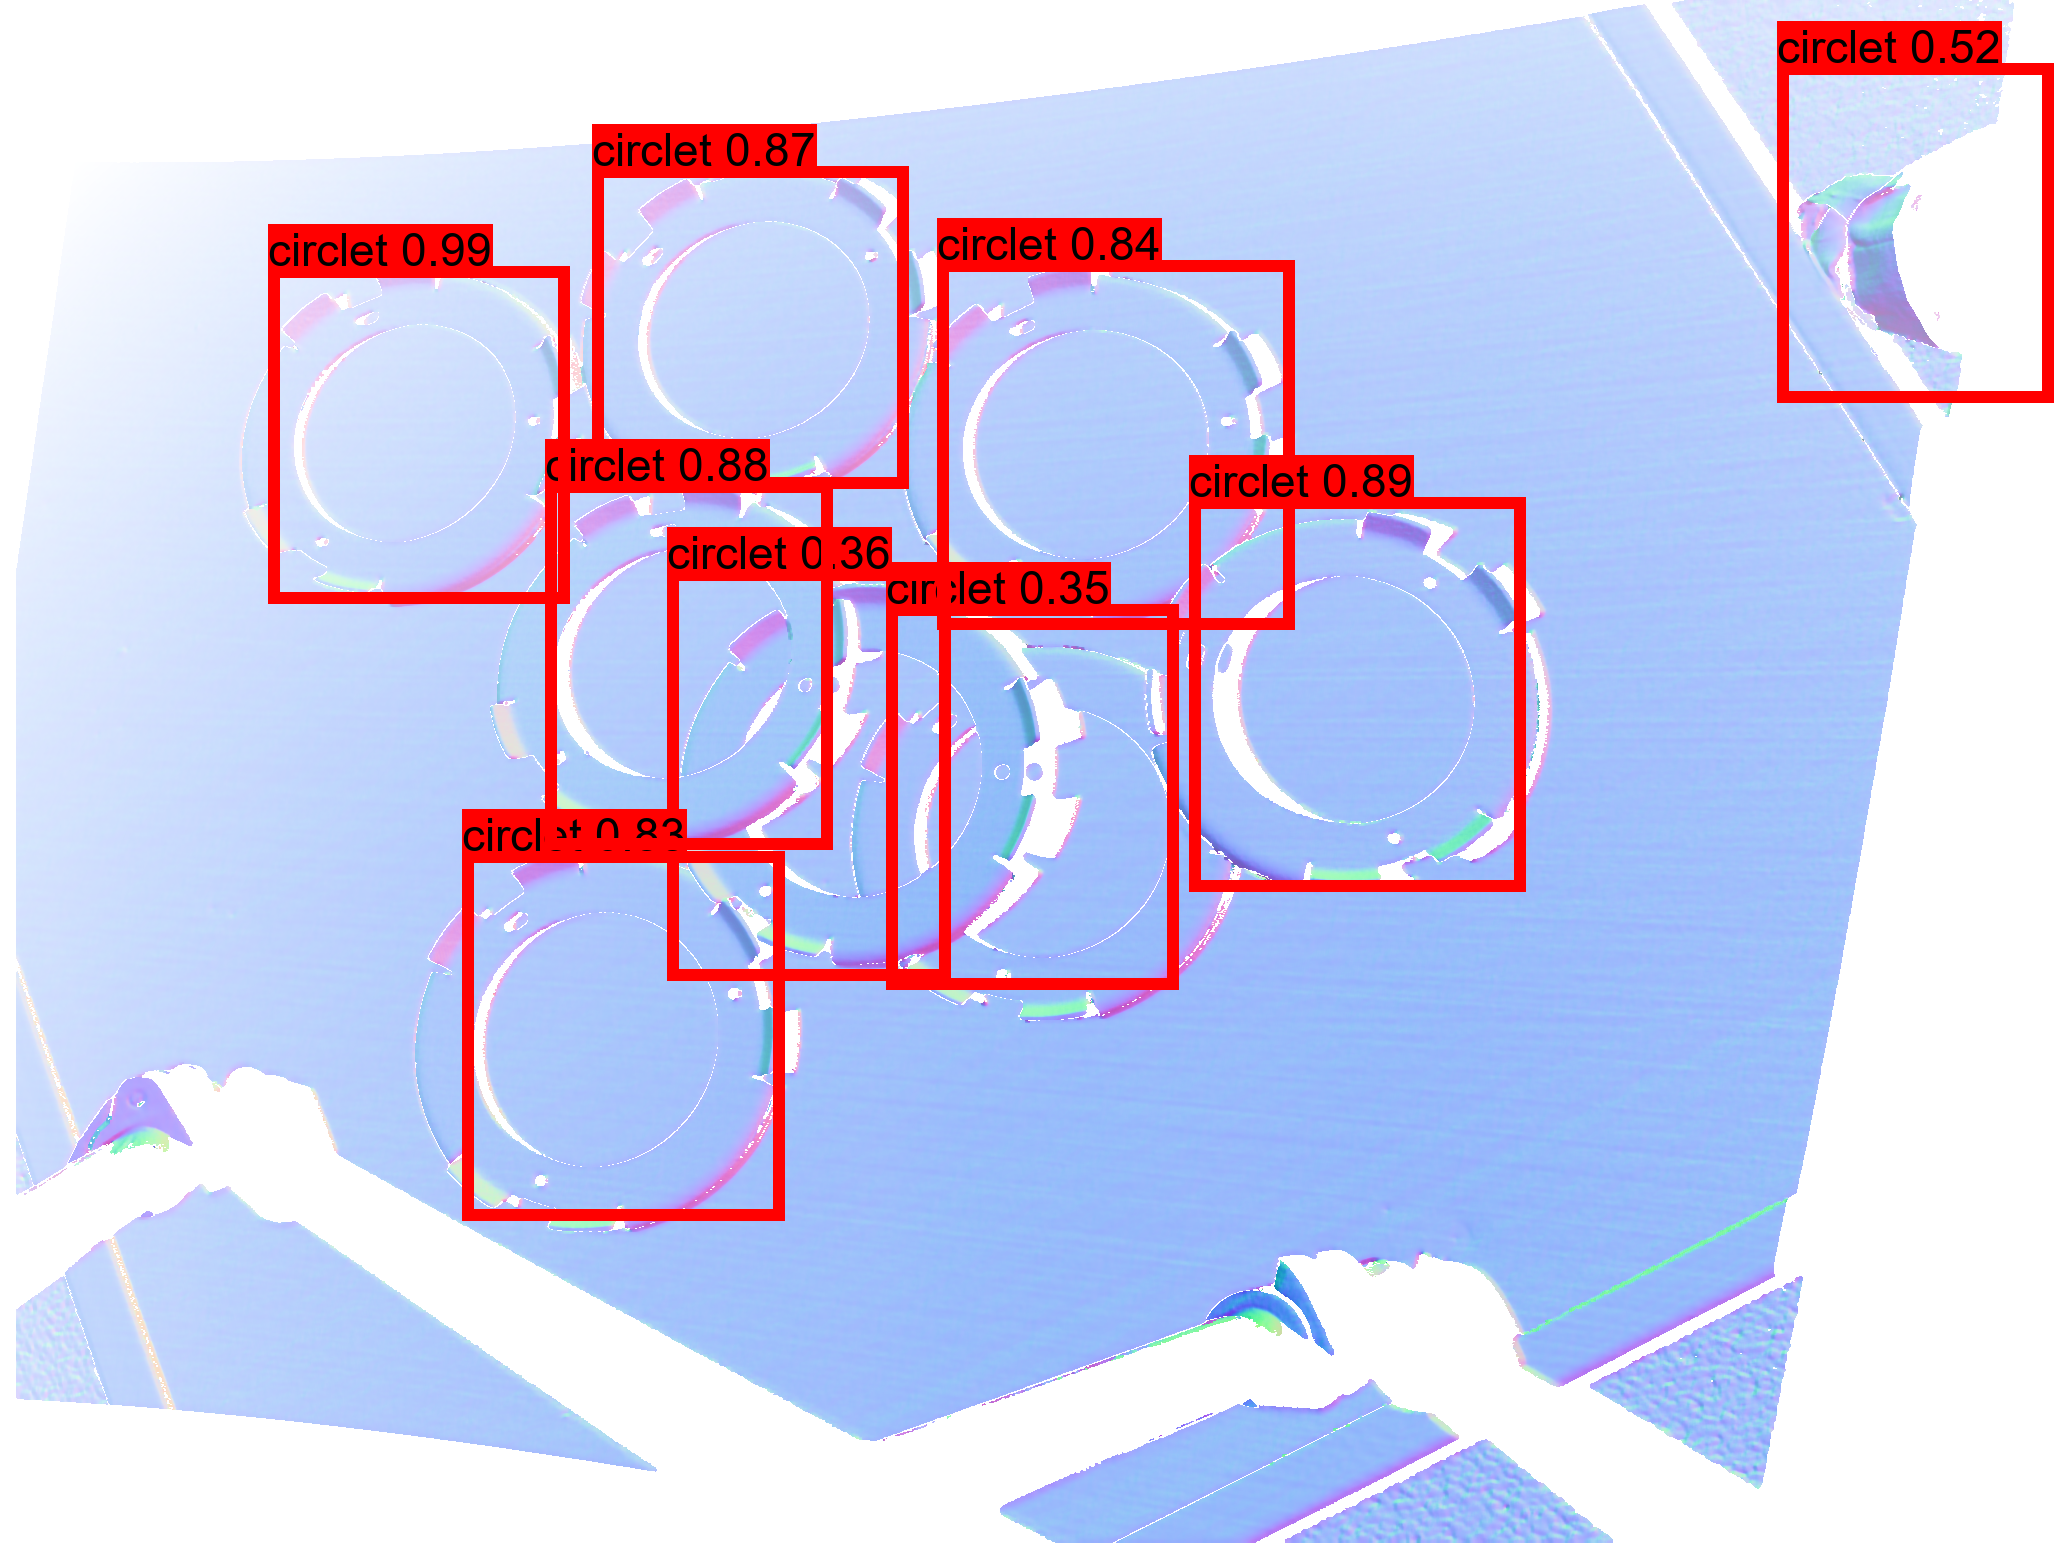
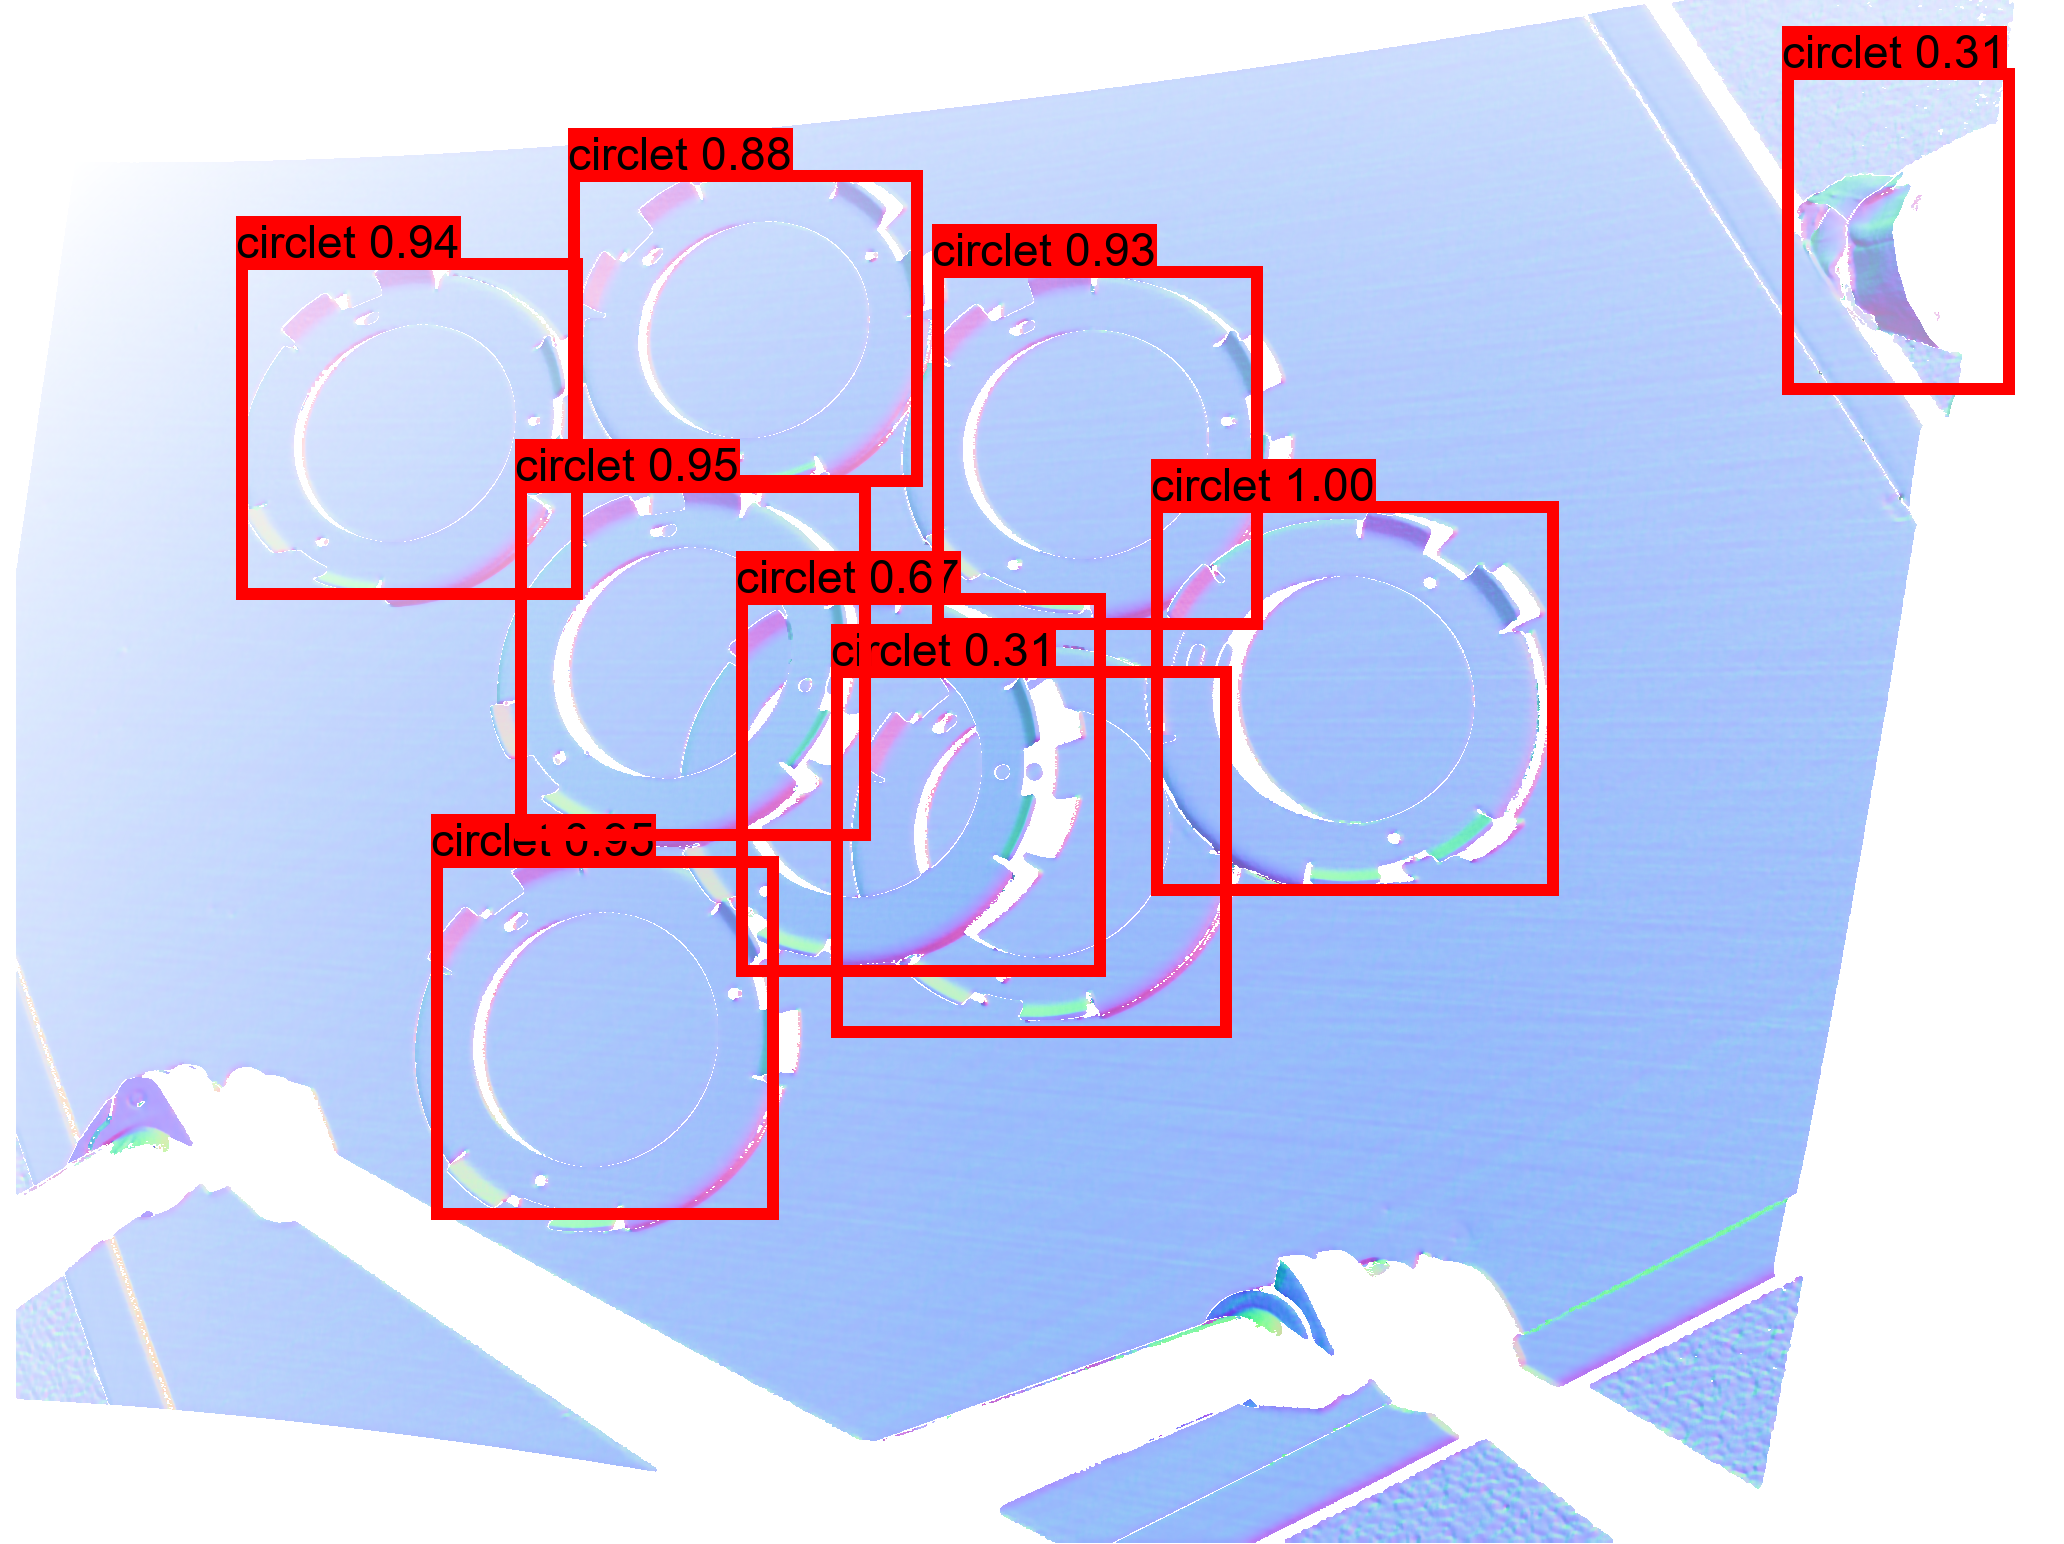
stride fix works fine

Changed region(s): [[0.093, 0.0622, 0.7752, 0.8083], [0.8372, 0.0, 1.0, 0.2798]]

diff --git a/yolo/model.py b/yolo/model.py
@@ -137,8 +137,8 @@ def yolo_head(feats, anchors, num_classes, input_shape, calc_loss=False):
         feats, [-1, grid_shape[0], grid_shape[1], num_anchors, num_classes + 5])
 
     # Adjust preditions to each spatial grid point and anchor size.
-    box_xy = (K.sigmoid(feats[..., :2]) + grid) / K.cast(grid_shape[::-1], K.dtype(feats))
-    box_wh = K.exp(feats[..., 2:4]) * anchors_tensor / K.cast(input_shape[::-1], K.dtype(feats))
+    box_xy = (K.sigmoid(feats[..., :2]) + grid) / K.cast(grid_shape[...,::-1], K.dtype(feats))
+    box_wh = K.exp(feats[..., 2:4]) * anchors_tensor / K.cast(input_shape[...,::-1], K.dtype(feats))
     box_confidence = K.sigmoid(feats[..., 4:5])
     box_class_probs = K.sigmoid(feats[..., 5:])
 

diff --git a/yolo/yolo.py b/yolo/yolo.py
@@ -1,4 +1,3 @@
-# -*- coding: utf-8 -*-
 """
 Class definition of YOLO_v3 style detection model on image and video
 """
